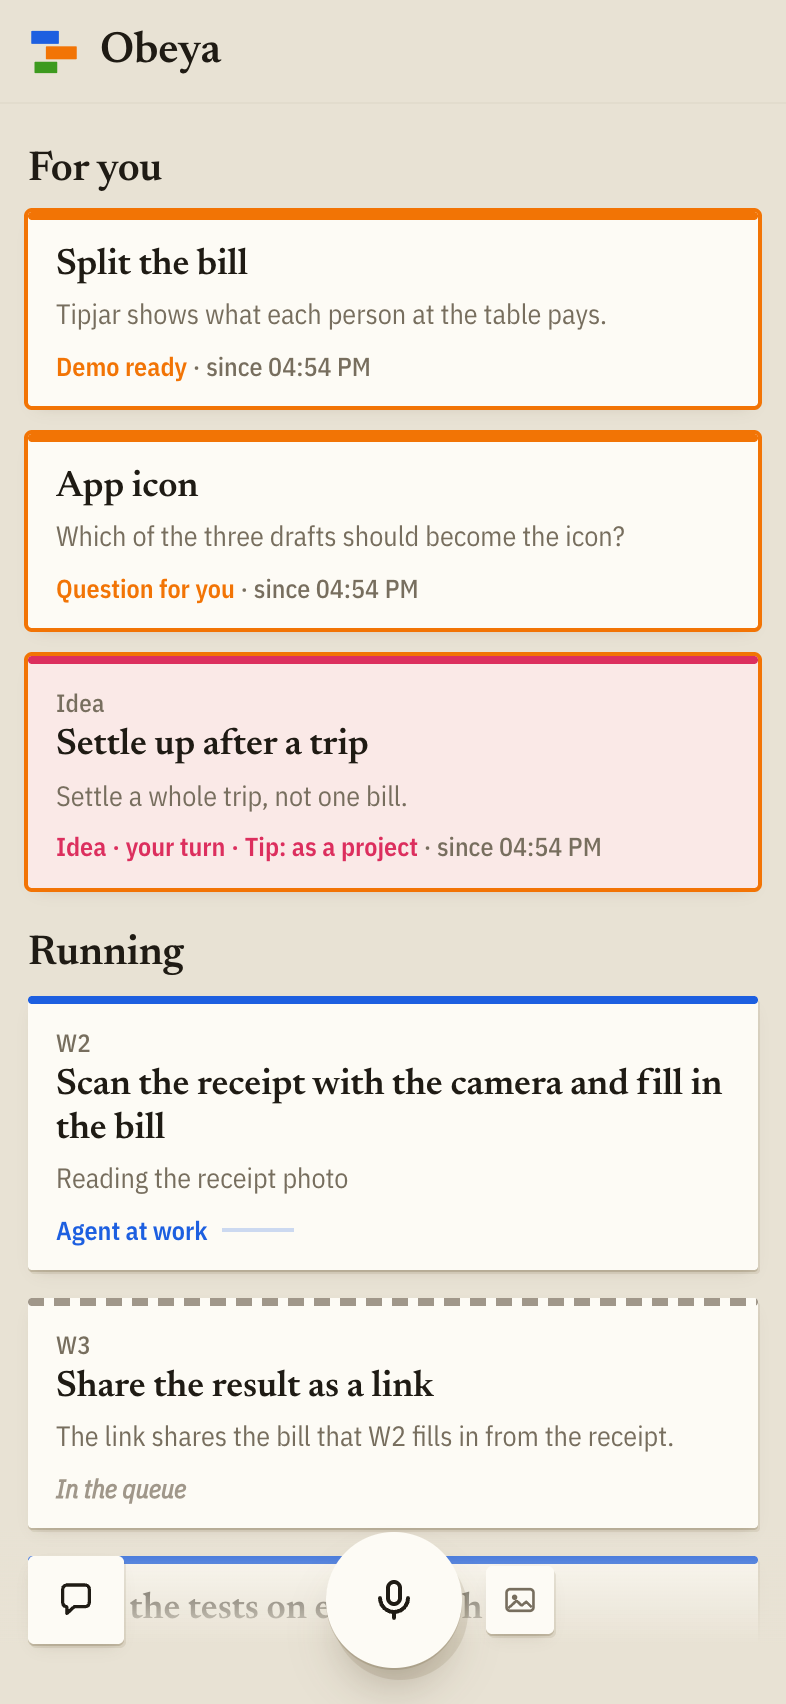
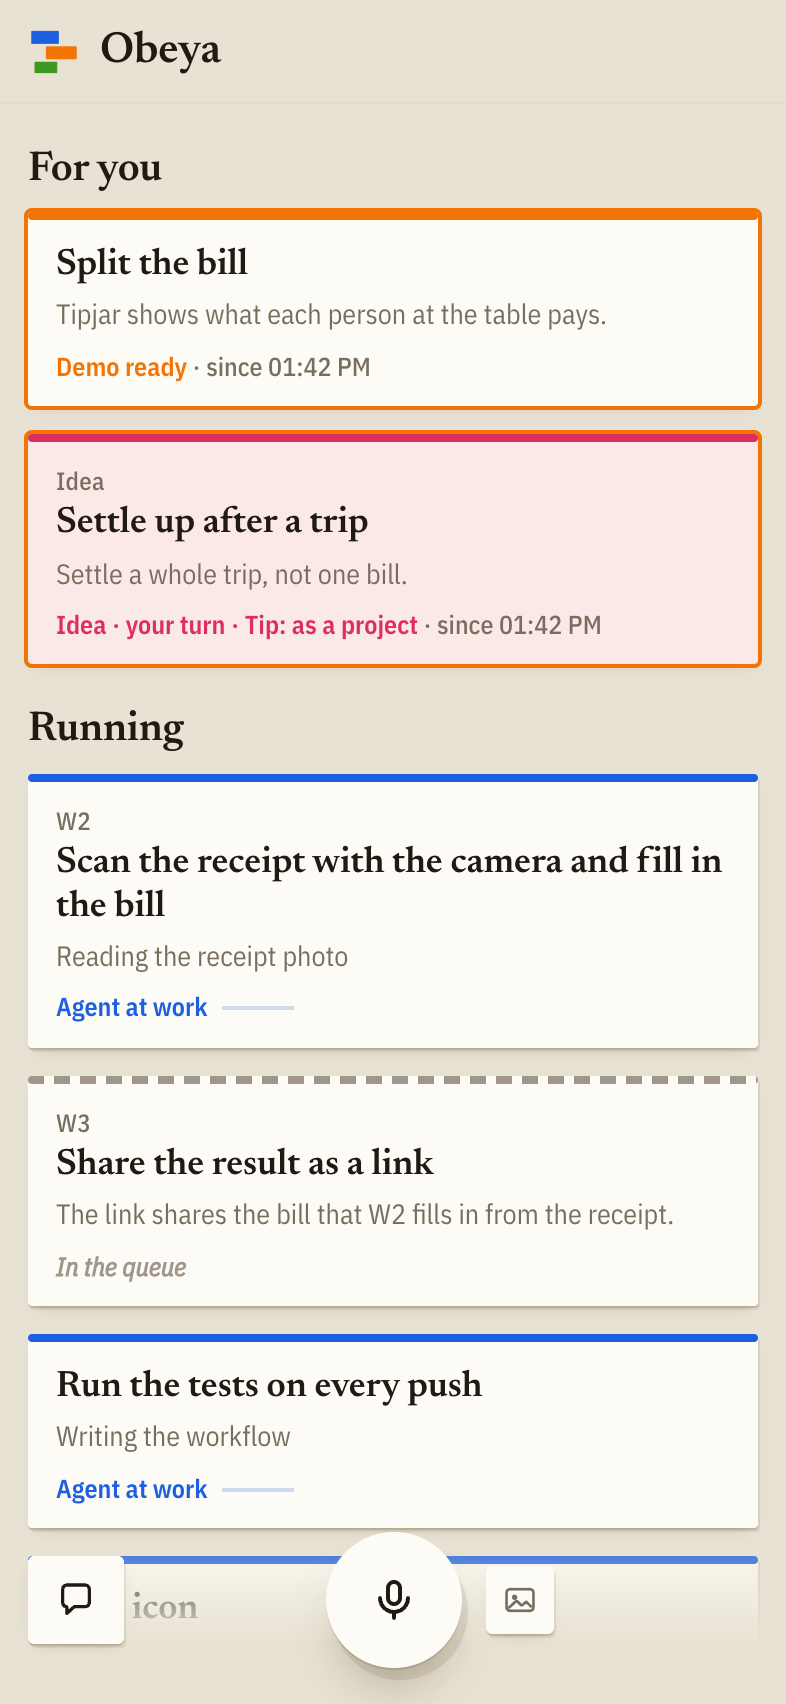
Version 0.6.0, with the site's screenshots and the video's poster taken again
The screenshots in site/img/ and the poster come from the hero video rendered from this
version. The README names what 0.6.0 adds for a newcomer: a folder that stays without git, where
cards work in the folder itself, each with its change list and "Discard changes".

Demo-Video: https://demos.obeya.si/release-erstellen-e4abde/

diff --git a/README.md b/README.md
@@ -180,7 +180,9 @@ narrated by its voice. How it works is under "Hosts" in [`docs/design.md`](docs/
 
 ### Setting up a repository
 
-Obeya works on any git repository. How a project's app starts, which checks a change must pass,
+Obeya works on any git repository, and on a folder that is to stay without git (a document
+archive in a cloud drive, say): there cards work in the folder itself, each listing what it
+changed, and "Discard changes" puts it back. How a project's app starts, which checks a change must pass,
 how approved work lands and how a demo is recorded, the repository says in its settings,
 `.obeya/settings.json`; [`docs/settings.md`](docs/settings.md) describes them. "Configuration" shows
 them, changes them for one machine and takes them over into the repository for everyone, and offers
